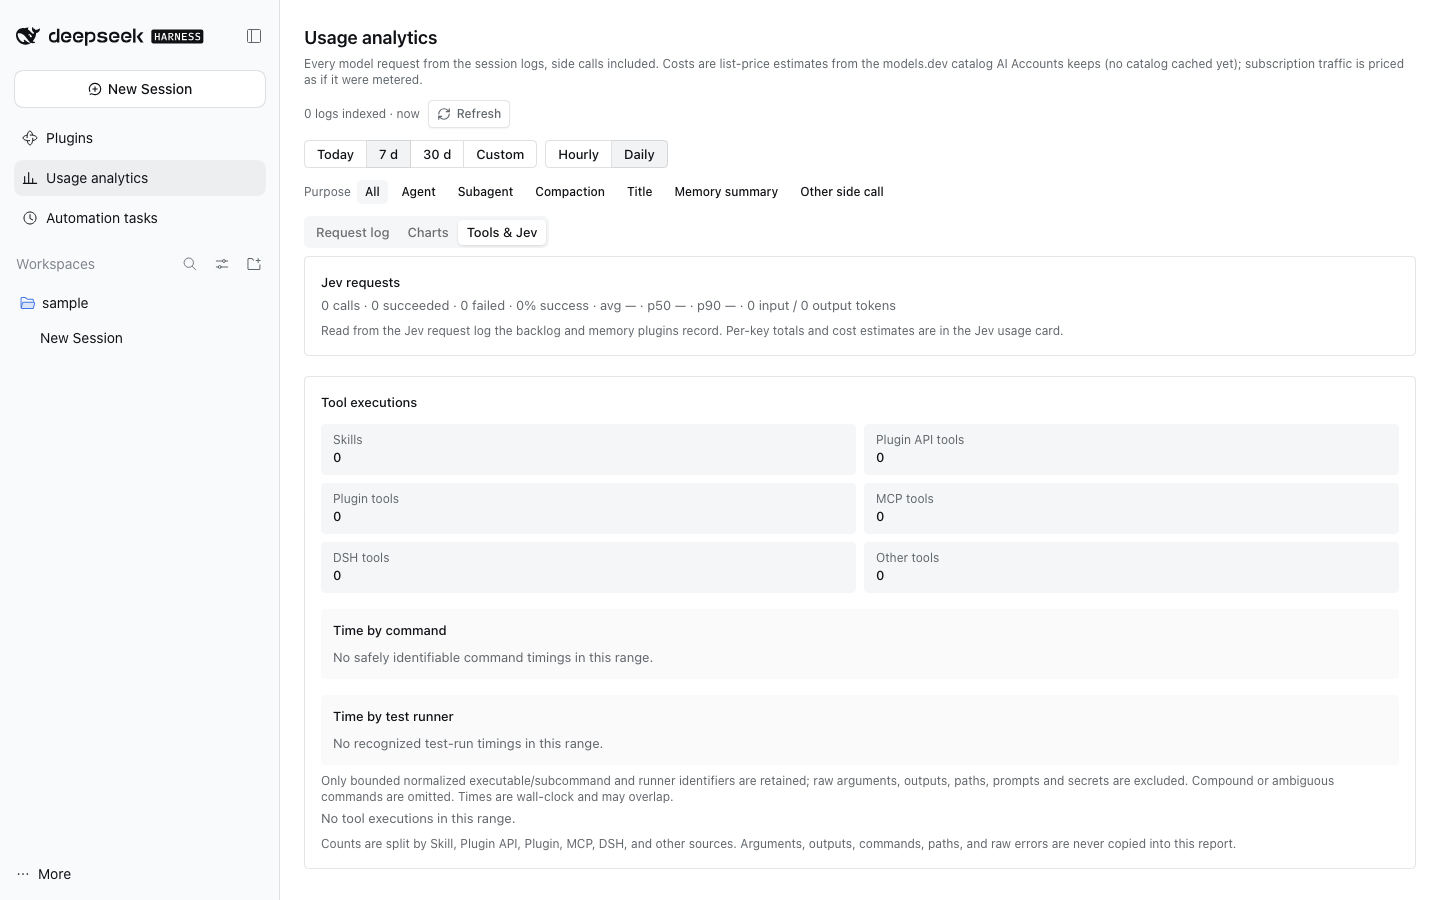
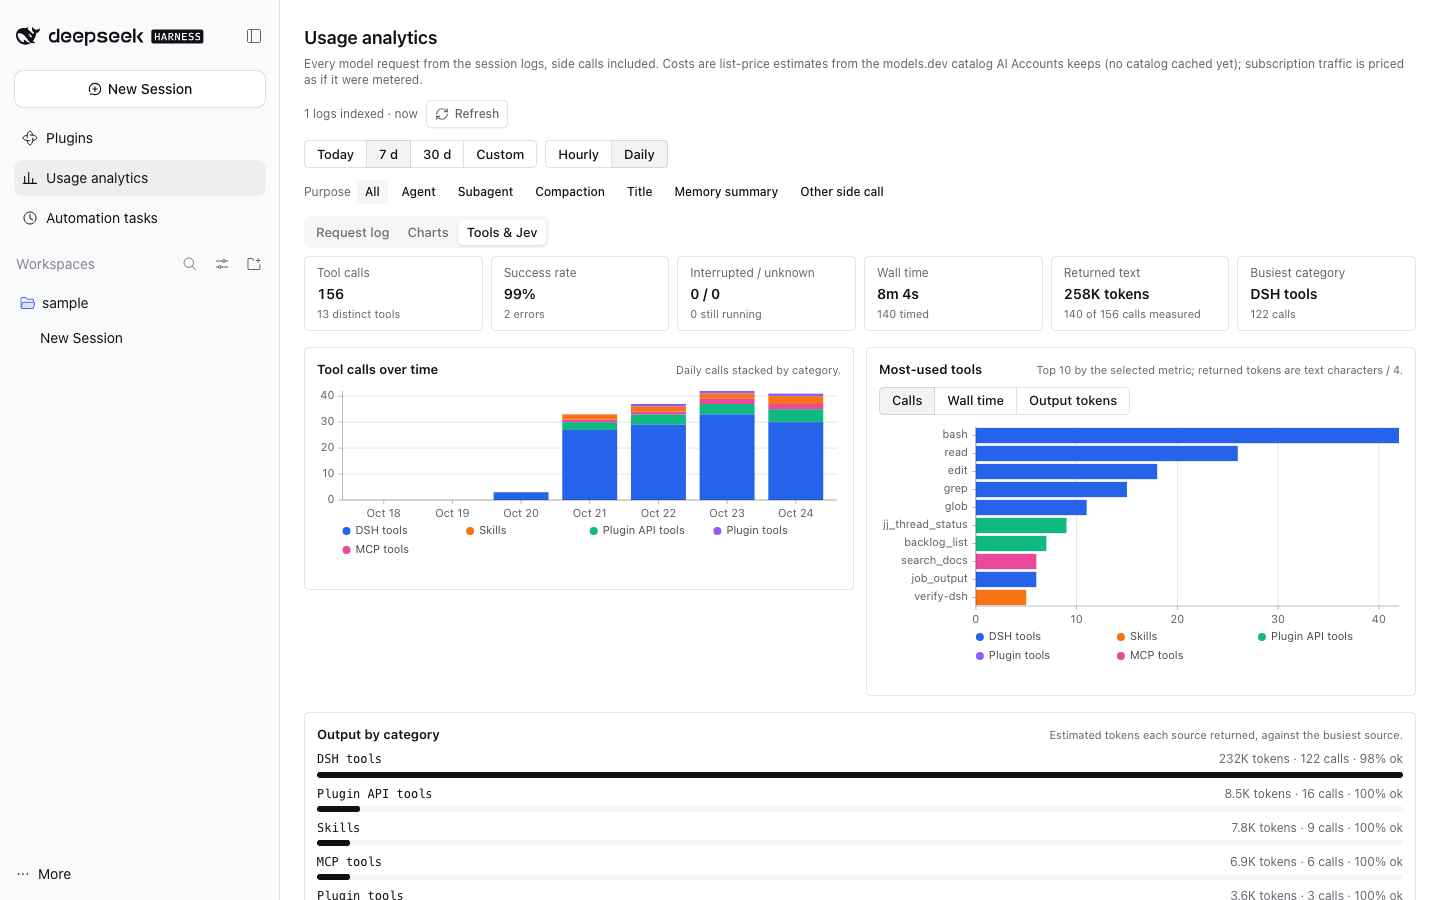
docs(usage): catalog and README for tool analytics
The catalog, README, screenshot and the e2e steps now describe the tool
charts, the purpose grouping, cache savings and cost per turn, and the
characters / 4 estimate for returned tokens. The e2e journey asserts the
new headings and the returned-token column instead of the removed report
headings.

diff --git a/tooling/dshx/e2e/support/plugin-journeys/usage.steps.ts b/tooling/dshx/e2e/support/plugin-journeys/usage.steps.ts
@@ -192,20 +192,19 @@ Then('selecting a model in the cost breakdown shows its requests in the log', as
 
 When('the Tools & Jev tab is opened', async ({ page }: { page: Page }) => {
   await page.getByRole('tab', { name: 'Tools & Jev', exact: true }).click()
-  await expect(page.getByRole('heading', { name: 'Jev requests', exact: true })).toBeVisible()
+  await expect(page.getByRole('heading', { name: 'Tool calls over time', exact: true })).toBeVisible()
 })
 
 Then('the tool execution report and Jev call report are visible', async ({ page }: { page: Page }) => {
   await recordAssertion(page, 'usage-tool-and-jev-report-visible', async () => {
-    await expect(page.getByRole('heading', { name: 'Tool executions', exact: true })).toBeVisible()
-    await expect(page.getByRole('columnheader', { name: 'Avg / p50 / p90 / max', exact: true })).toBeVisible()
-    await expect(page.locator('dl').getByText('Skills', { exact: true }).locator('..')).toContainText('1')
-    await expect(page.locator('dl').getByText('Plugin API tools', { exact: true }).locator('..')).toContainText('1')
-    await expect(page.locator('dl').getByText('MCP tools', { exact: true }).locator('..')).toContainText('1')
-    await expect(page.locator('dl').getByText('DSH tools', { exact: true }).locator('..')).toContainText('1')
-    await expect(page.getByRole('table').getByRole('row', { name: /DSH tools\s+—\s+bash\s+1\s+1\s+\(100%\)\s+0\s+0\s+0/u })).toBeVisible()
+    await expect(page.getByRole('heading', { name: 'Most-used tools', exact: true })).toBeVisible()
+    await expect(page.getByRole('heading', { name: 'Output by category', exact: true })).toBeVisible()
+    await expect(page.getByRole('heading', { name: 'Every tool', exact: true })).toBeVisible()
+    await expect(page.locator('dl').getByText('Returned text', { exact: true }).locator('..')).toContainText('tokens')
+    await expect(page.getByRole('columnheader', { name: 'Output tokens', exact: true })).toBeVisible()
+    await expect(page.getByRole('table').getByRole('row', { name: /DSH tools\s+—\s+bash\s+1\s+1\s+\(100%\)\s+0/u })).toBeVisible()
     await expect(page.getByRole('table').getByRole('row', { name: /Skills\s+—\s+verify-dsh\s+1/u })).toBeVisible()
-    await expect(page.getByText(/Arguments, outputs, commands, paths, and raw errors are never copied/u)).toBeVisible()
+    await expect(page.getByText(/Arguments, outputs, commands, paths and raw errors are never copied/u)).toBeVisible()
   })
   await finishJourneyAssertions(page)
 })

diff --git a/plugins/@dshfiles/usage/README.md b/plugins/@dshfiles/usage/README.md
@@ -14,11 +14,17 @@ call observations. Observation only.
   with counts, search by model, provider, project or thread title, a purpose
   filter (agent, subagent, compaction, title, memory summary, other side
   call) and a date range. A row opens its thread.
-- **Charts**: headline tiles against the previous period, cost over time
-  stacked by model, provider or project, cost per model, provider and project
-  (selecting one filters the log), tokens by kind, cache hit ratio, requests
-  and failures, TTFT and duration p50/p90, and the top threads by cost,
-  hourly or daily. Charts use TanStack Charts from `@dshfiles/plugin-ui`.
+- **Charts**: headline tiles against the previous period — cost, per day,
+  requests, failures, tokens, cache hit, estimated cache savings and cost per
+  turn — cost over time stacked by model, provider, project or purpose, cost
+  per model, provider and project (selecting one filters the log), tokens by
+  kind, cache hit ratio, requests and failures, TTFT and duration p50/p90, and
+  the top threads by cost, hourly or daily. Grouping by purpose shows where
+  tokens went: agent, subagent, compaction, title, memory summary or another
+  side call. Cache savings prices the cache-read tokens at the input rate they
+  avoided, per list price, and cost per turn divides the range cost by the
+  turns that made a request. Charts use TanStack Charts from
+  `@dshfiles/plugin-ui`.
 - **Jev API usage**: DSH-origin calls from Backlog and Memory, grouped by the
   configured secret reference (or the `TYPESAFE_API_KEY` environment-variable
   label), with provider-reported tokens, request counts and a TypeSafe
@@ -26,13 +32,17 @@ call observations. Observation only.
   are shown per label, with bars comparing input-token volume to the most-used
   label this month. These are DSH-local observations, not provider account billing, and
   exclude calls outside DSH; labels are not verified billing identities.
-- **Tools & Jev**: tool counts split into skill, plugin API, plugin, MCP, DSH
-  and other sources, with per-tool/plugin counts, outcome totals and latency
-  statistics. It ranks normalized shell executable/subcommands and recognized
-  test runners by summed wall-clock duration, share, call count and recorded
-  shell-call outcome (not parsed test output); parallel calls can overlap.
-  Compound or ambiguous shell calls are omitted.
-  Jev request totals per calling plugin (Backlog, Memory) appear alongside.
+- **Tools & Jev**: tool charts over the selected range — calls over time
+  stacked by source category, the ten most-used tools ranked by calls, wall
+  time or returned tokens, a per-category share of returned tokens and success
+  rate, and tiles for calls, success rate, interruptions, wall time, returned
+  tokens and the busiest category. Below them sit the per-tool table (calls,
+  outcomes, latency, returned tokens, last use), normalized shell
+  executable/subcommands and recognized test runners ranked by summed
+  wall-clock duration, share, call count and recorded shell-call outcome (not
+  parsed test output; parallel calls can overlap, and compound or ambiguous
+  shell calls are omitted), Jev request totals per calling plugin (Backlog,
+  Memory) and recent tool/Jev events.
   The read-only `usage_activity_report` Agent tool defaults to the last 30 days
   and answers rankings such as most-used skills or MCP tools; optional `days`
   (not with explicit `from`/`to`), `category`, `limit` and `eventLimit` narrow
@@ -47,7 +57,8 @@ The Host walks `<sessions root>/<project>/<session>/session[.vN].jsonl.zstd`
 complete Zstandard frame and the fold state, in
 `$DSH_HOME/plugins/usage/usage.db` (node:sqlite). A pass every 30 s, or
 **Refresh**, decodes only the frames a log gained; a torn final frame waits for
-the writer.
+the writer. A fold-version bump — a change in how a log is read — clears the
+stored cursors and tool rows once, so the next pass re-reads every log.
 
 | Field       | Source                                                                                                                                                                                                                   |
 | ----------- | ------------------------------------------------------------------------------------------------------------------------------------------------------------------------------------------------------------------------ |
@@ -78,7 +89,11 @@ records. Calls are paired in the resumable fold and persisted locally for up to
 optional plugin owner, timestamps, duration and outcome (`success`, `error`,
 `interrupted`, `unknown` or `pending`). Shell calls additionally retain a bounded
 normalized executable/subcommand and, when recognized, a test-runner identifier
-(e.g. `pnpm:test:e2e` or `vitest`) for aggregate time/call/outcome reports.
+(e.g. `pnpm:test:e2e` or `vitest`) for aggregate time/call/outcome reports. Each finished call keeps
+the number of text characters the tool returned, so the report can estimate
+returned tokens (characters / 4) per tool, category and time bucket; the
+returned text itself, image parts and binary payloads are never stored, and a
+call indexed before this measurement, or with no text, reports as unmeasured.
 Compound or ambiguous shell commands have no command identifier. Categories come
 from the live dshx registry (`api`, `plugin`, `mcp`, `tool`); recognized
 skill-loader calls retain only a bounded skill ID parsed from the call's `name`
